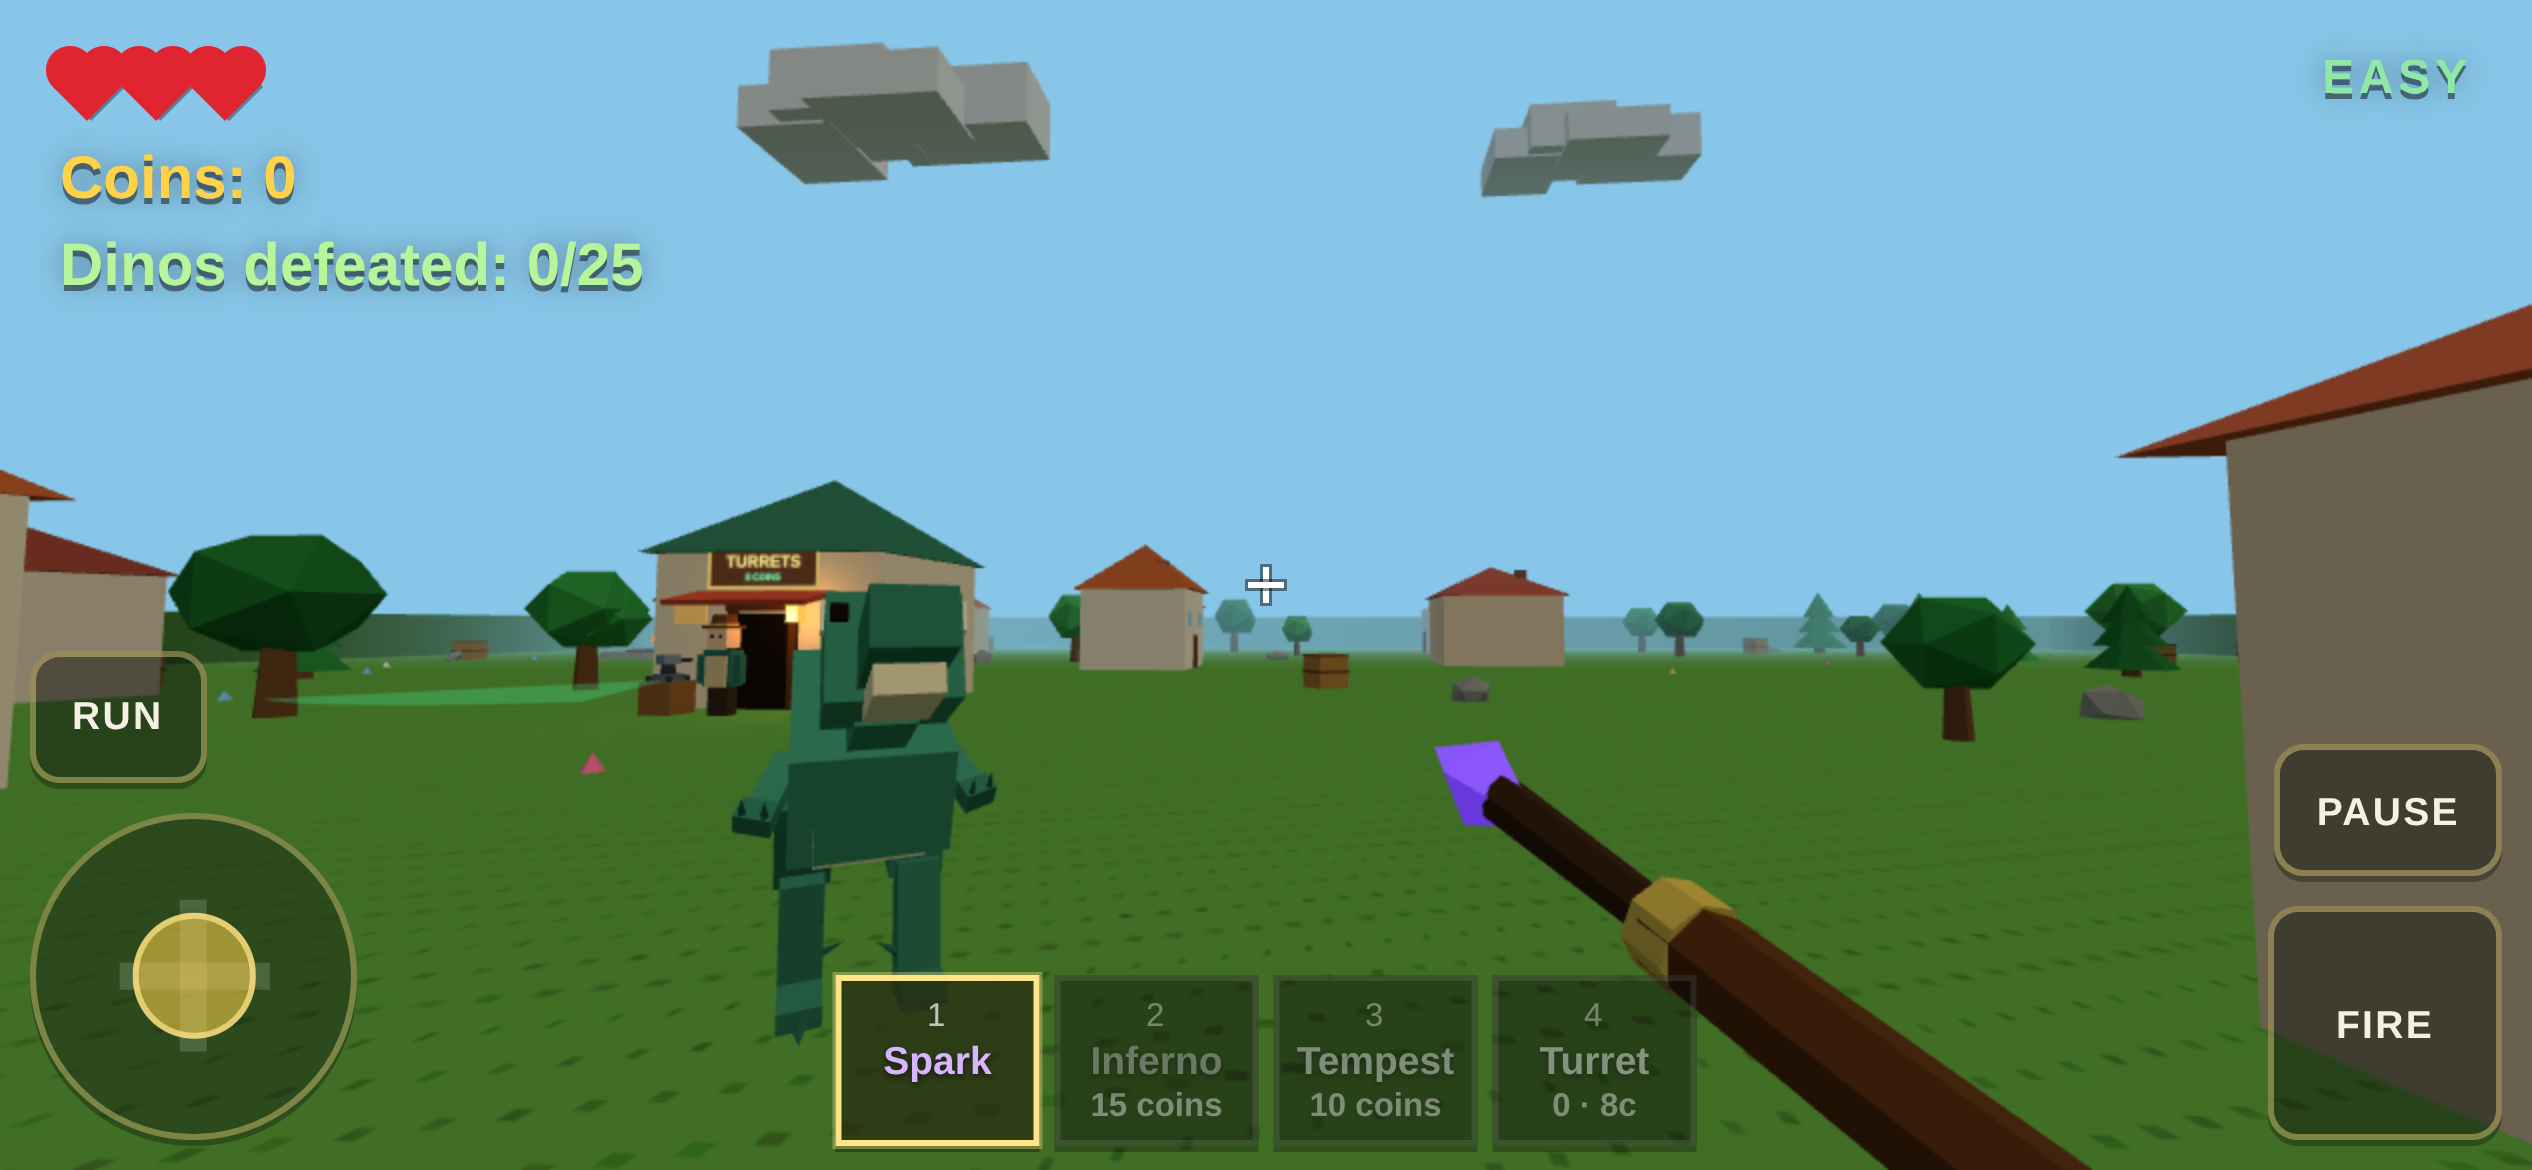
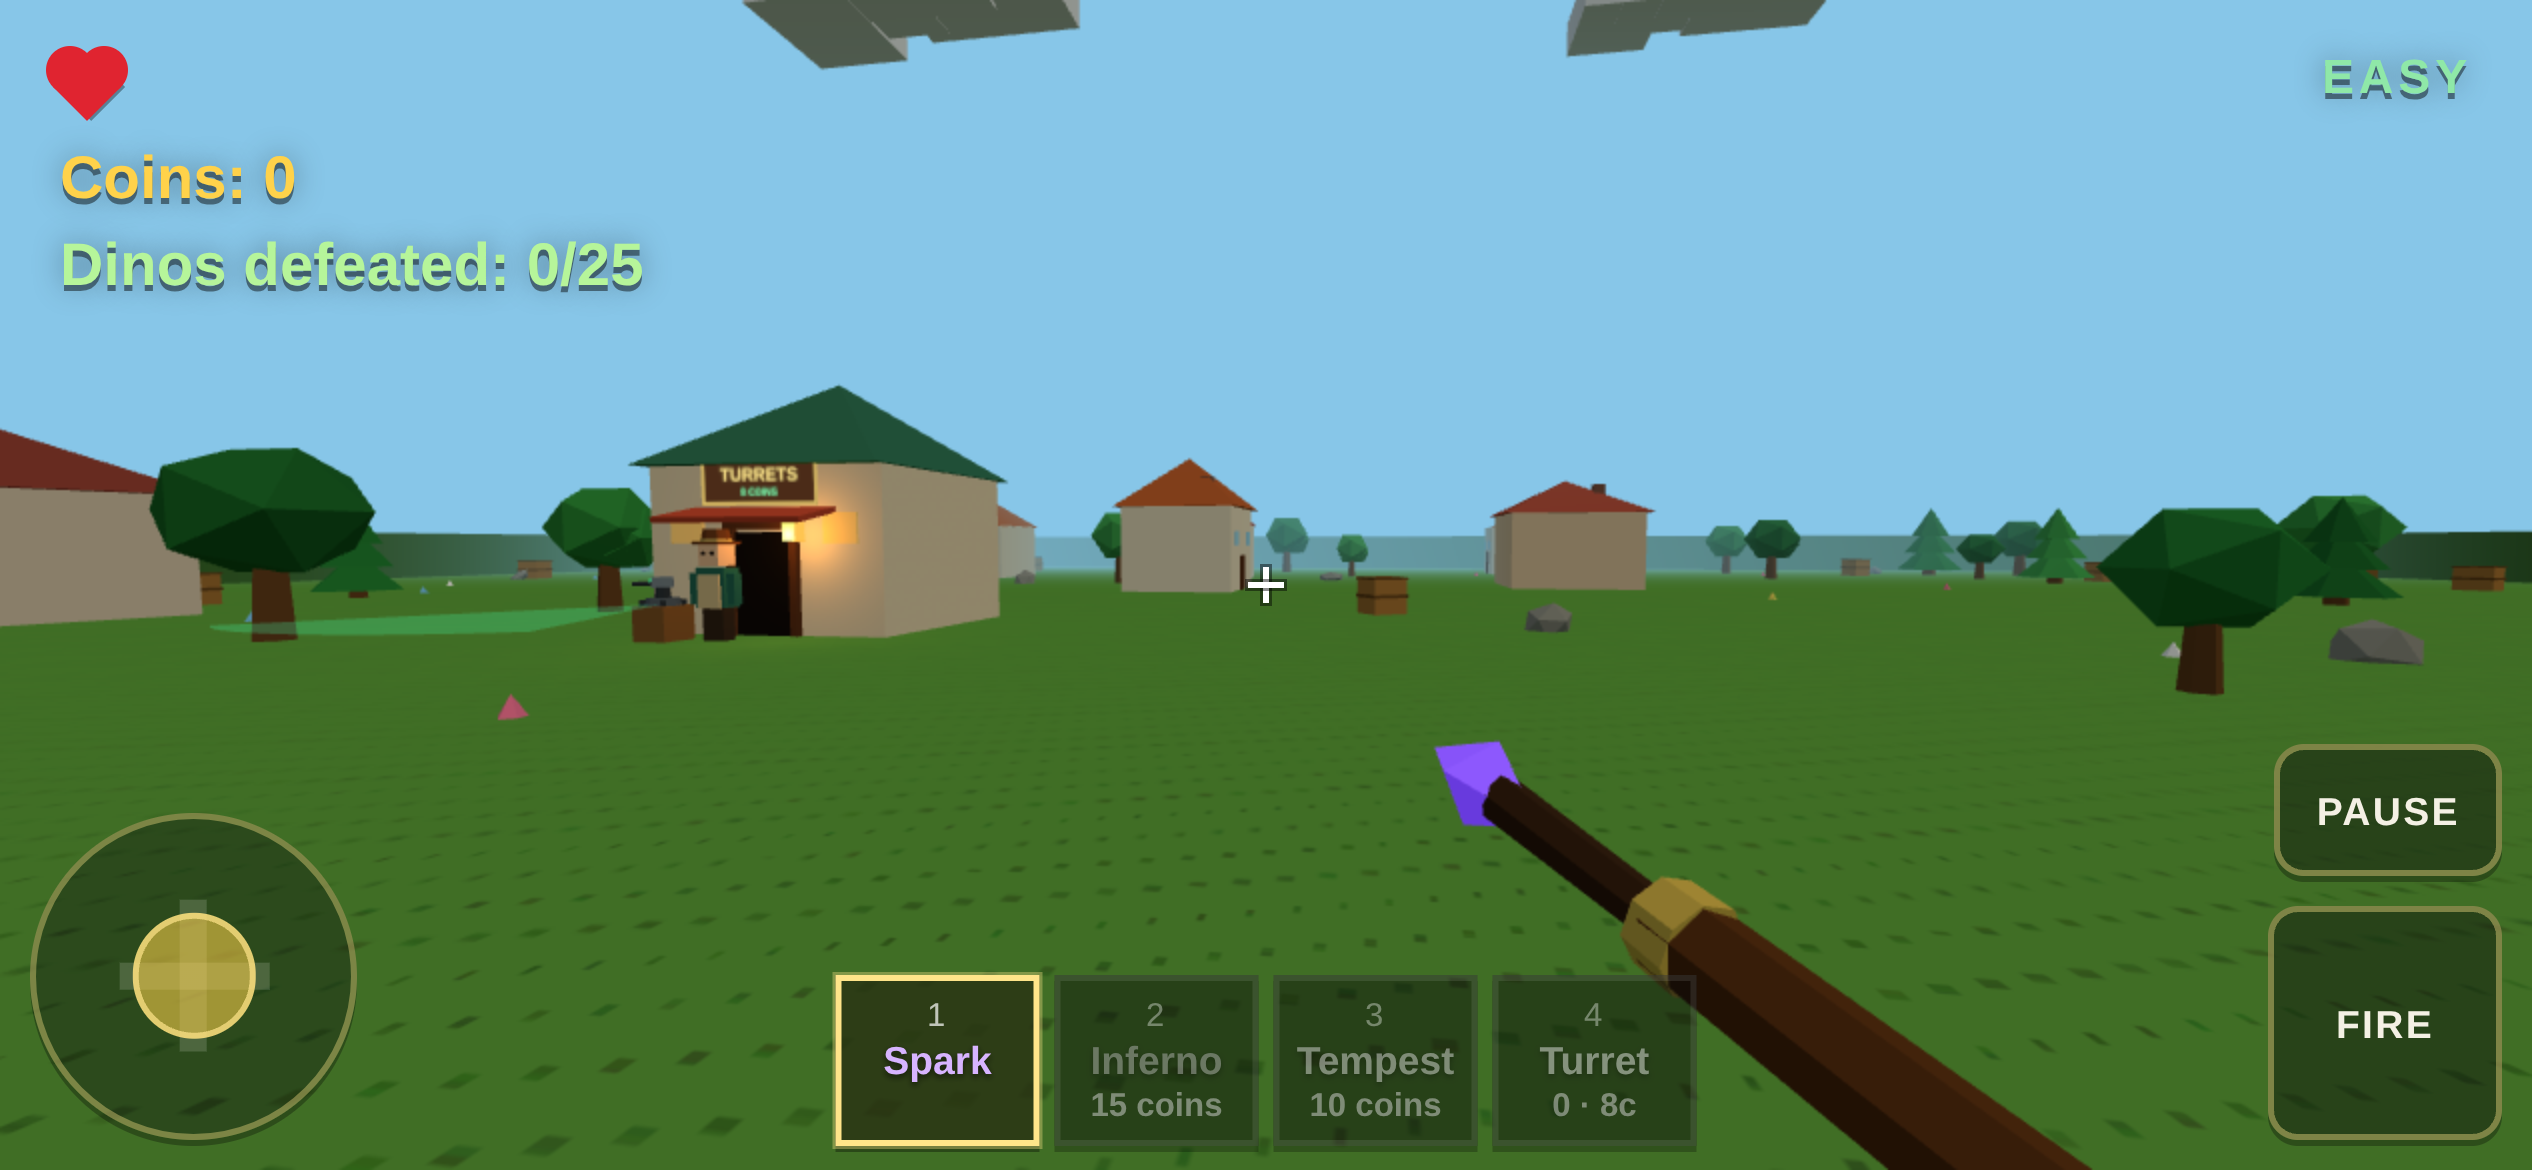
Always run on mobile and remove the run button
Touch movement now uses run speed (and the run bob) automatically, so the mobile run button is no longer needed. Desktop Shift-to-run is unchanged.

diff --git a/index.html b/index.html
@@ -495,7 +495,7 @@
       letter-spacing: 0.06em;
       font-size: 13px;
     }
-    #touch-ui button:active, #touch-ui button.held, #touch-run.on {
+    #touch-ui button:active, #touch-ui button.held {
       background: rgba(255, 210, 74, 0.45);
       color: #2a1c08;
     }
@@ -610,7 +610,6 @@
   <div id="touch-ui" class="hidden" aria-hidden="true">
     <div id="rotate-hint" class="hidden">Rotate your device — landscape plays best</div>
     <div id="touch-left">
-      <button type="button" id="touch-run" aria-label="Run">Run</button>
       <div id="touch-dpad" aria-label="Move">
         <div class="dpad-ring"></div>
         <div class="dpad-cross"></div>
@@ -636,7 +635,7 @@
         <li><span>1 / 2 / 3</span> Switch wands</li>
         <li><span>4</span> Select turret (click to place)</li>
         <li class="desktop-help"><span>E</span> Buy from shrines or shops</li>
-        <li class="touch-help"><span>Pad</span> Move · drag off or around to look</li>
+        <li class="touch-help"><span>Pad</span> Move (always runs) · drag off or around to look</li>
         <li class="touch-help"><span>Fire</span> Shoot, or auto-fires on a target</li>
       </ul>
       <p style="margin-bottom:16px">Break crates for coins, visit shrines, the turret shop, and the healer for extra hearts. Defeat 25 dinos to summon the Tyrant!</p>
@@ -820,9 +819,6 @@ let shopLeaveGraceUntil = 0;
 let bossPending = false;
 let touchMode = false;
 const touchStick = { x: 0, y: 0 };
-let touchRun = false;
-let touchRunHeld = false;
-let touchRunSticky = false;
 let fireHeld = false;
 const touchPointers = new Map();
 
@@ -4372,7 +4368,6 @@ window.addEventListener("orientationchange", () => {
 const touchUi = $("touch-ui");
 const touchDpad = $("touch-dpad");
 const dpadNub = $("dpad-nub");
-const touchRunBtn = $("touch-run");
 const touchFireBtn = $("touch-fire");
 const touchBuyBtn = $("touch-buy");
 const touchPauseBtn = $("touch-pause");
@@ -4413,9 +4408,6 @@ function clearTouchPointers() {
   touchStick.x = 0;
   touchStick.y = 0;
   fireHeld = false;
-  touchRunHeld = false;
-  touchRun = touchRunSticky;
-  if (touchRunBtn) touchRunBtn.classList.toggle("on", !!touchRun);
   if (touchFireBtn) touchFireBtn.classList.remove("held");
   updateDpadNub(0, 0);
 }
@@ -4449,7 +4441,6 @@ function applyStickFromPoint(clientX, clientY) {
 function isUiControl(target) {
   if (!target || !target.closest) return false;
   return !!(
-    target.closest("#touch-run") ||
     target.closest("#touch-fire") ||
     target.closest("#touch-buy") ||
     target.closest("#touch-pause") ||
@@ -4629,34 +4620,6 @@ document.addEventListener("contextmenu", (e) => {
   if (touchMode) e.preventDefault();
 });
 
-if (touchRunBtn) {
-  let runDownAt = 0;
-  touchRunBtn.addEventListener("pointerdown", (e) => {
-    e.preventDefault();
-    e.stopPropagation();
-    runDownAt = performance.now();
-    touchRunHeld = true;
-    touchRun = true;
-    touchRunBtn.classList.add("held", "on");
-    if (touchRunBtn.setPointerCapture) touchRunBtn.setPointerCapture(e.pointerId);
-  });
-  const endRun = (e) => {
-    if (e) e.preventDefault();
-    const held = performance.now() - runDownAt;
-    touchRunHeld = false;
-    if (held < 220) {
-      touchRunSticky = !touchRunSticky;
-    } else {
-      touchRunSticky = false;
-    }
-    touchRun = touchRunSticky;
-    touchRunBtn.classList.remove("held");
-    touchRunBtn.classList.toggle("on", !!touchRun);
-  };
-  touchRunBtn.addEventListener("pointerup", endRun);
-  touchRunBtn.addEventListener("pointercancel", endRun);
-}
-
 if (touchFireBtn) {
   touchFireBtn.addEventListener("pointerdown", (e) => {
     e.preventDefault();
@@ -4741,7 +4704,7 @@ function updatePlayer(dt) {
   const analog = Math.min(1, Math.hypot(touchStick.x, touchStick.y));
   const moving = tmpMove.lengthSq() > 0;
   if (moving) tmpMove.normalize();
-  const running = !!((keys.Shift || touchRun) && moving);
+  const running = !!((keys.Shift || touchMode) && moving);
   const keyMove = !!(keys.KeyW || keys.KeyA || keys.KeyS || keys.KeyD);
   const speed = (running ? RUN_SPEED : WALK_SPEED) * (keyMove || !analog ? 1 : analog);
   let vx = moving ? tmpMove.x * speed : 0;
@@ -5232,7 +5195,7 @@ window.__dinoWand = {
   enableTouchMode,
   get touchMode() { return touchMode; },
   get touchStick() { return touchStick; },
-  get touchRun() { return touchRun; },
+  get touchRun() { return touchMode; },
   hostileUnderCrosshair,
   inShopZone,
   isCombatFrozen,

diff --git a/README.md b/README.md
@@ -21,7 +21,7 @@ Choose **Easy** or **Hard** on the start, death, or victory screen. Shops (the t
 
 ### Mobile / touch
 
-- Left **D-pad** to move (diagonals supported); **Run** button nearby
+- Left **D-pad** to move (diagonals supported); movement always uses run speed
 - Drag anywhere that isn’t a button — or drag off the D-pad — to look around
 - Auto-fires when a hostile is under the crosshair; hold **Fire** to shoot (or place a turret when that slot is active)
 - Tap wand / turret slots **1–4**; a **Buy** button appears in shop zones; **Pause** to pause
